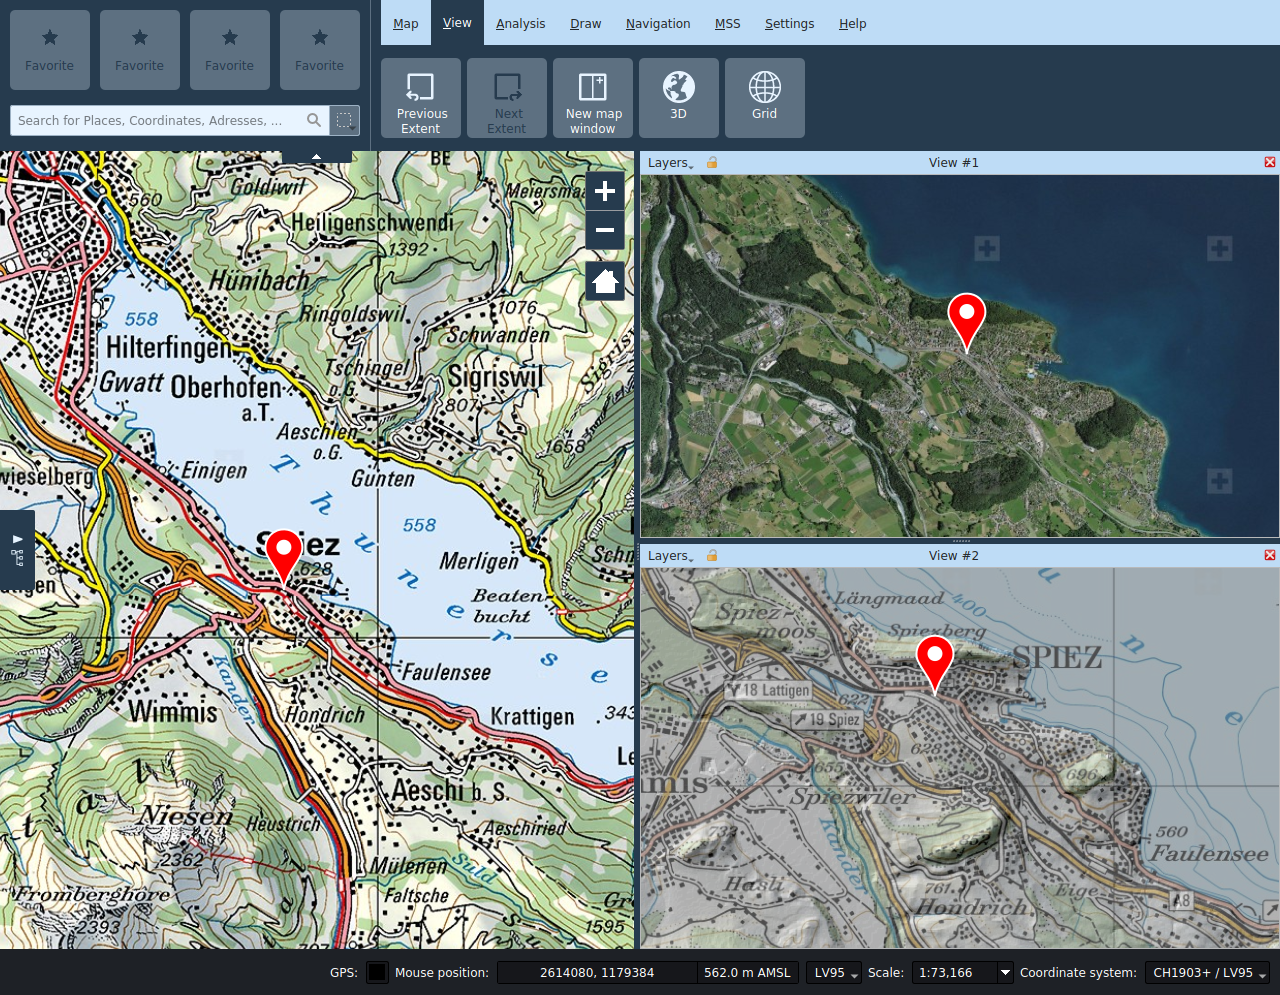
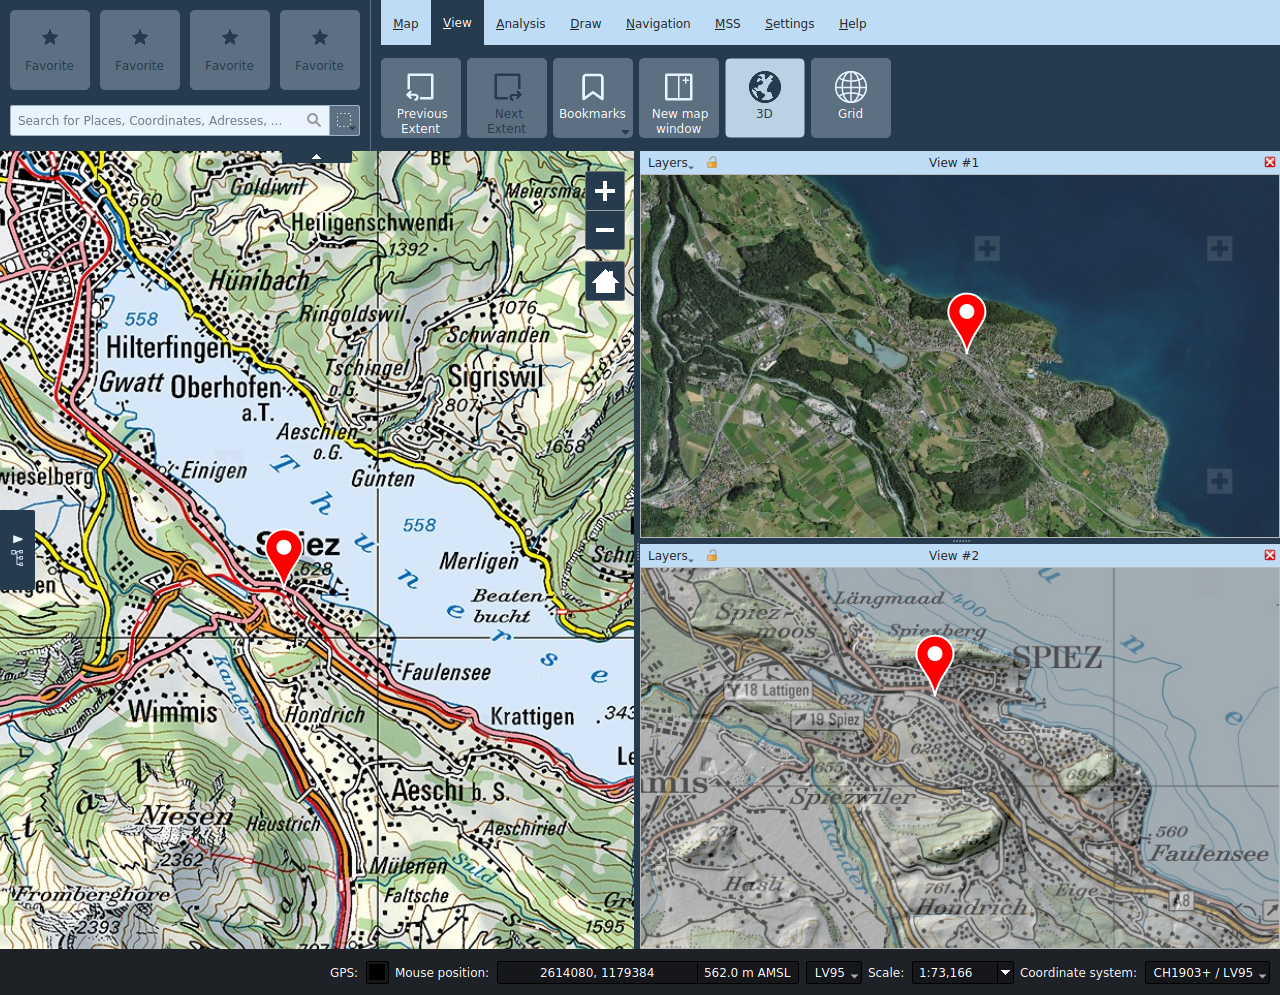
Update manual for version 2.1

Changed region(s): [[0.4375, 0.0312, 0.7188, 0.1558]]

diff --git a/manual/src/fr/index.md b/manual/src/fr/index.md
@@ -17,6 +17,30 @@ Les conditions d’utilisation des données sont énumérées dans l’applicati
 
 ## <a name="sec3"></a>Protocole de version
 
+### Version 2.1.0 (décembre 2021)
+* *Général*:
+    - Imprimer: Mise à l'échelle correcte des symboles (MSS, épingles, images, ...) en fonction du DPI d'impression.
+    - GPKG: Permet l'importation de couches de projet
+    - Arbre des couches: Possibilité de zoomer et de supprimer toutes les couches sélectionnées
+    - Visibilité basée sur l'échelle également pour les couches redlining/MSS
+    - Table d'attributs: divers nouveaux outils de sélection et de zoom pour les tables d'attributs
+* *Vue*:
+    - Nouvelle fonction de signets
+* *Analyse*:
+    - Bassin visuel: Possibilité de limiter la plage d'angle vertical de l'observateur
+    - Profil d’altitude et visibilité: affichage du marqueur dans le graphe lors du survol de la ligne sur la carte
+    - Nouvel outil éphéméride
+* *Dessin*:
+    - Épingles: Ajout d'un éditeur de texte riche
+    - Epingles: Permettre d'interagir avec le contenu de l'infobulle avec la souris
+    - Grille de guidage: Permettre l'étiquetage d'un seul quadrant
+    - Bullseye: Étiquetage des quadrants
+    - Nouvel élément de dessin en croix de coordonnées
+* *MSS*:
+    - Paramètres des symboles par couche
+    - Mise à jour de MSS-2022
+
+
 ### Version 2.0.0 (juliet 2020)
 - Nouvelle architecture d'application: KADAS est maintenant une application distincte, construite sur les bibliothèques QGIS 3.x
 - Nouvelle architecture des éléments de la carte, pour un flux de travail cohérent lors du dessin et de l'édition des objets Redlining, des symboles MSS, etc.

diff --git a/manual/src/it/view.md b/manual/src/it/view.md
@@ -6,7 +6,12 @@
 Spostandosi sulla mappa con la funzione **_Estensione precedente_** è possibile tornare all’estensione di mappa mostrato in precedenza. Tramite **_Estensione successivo_** si passa all’estensione di mappa selezionato successivamente.
 
 
-## <a name="sec1"></a>Nuova finestra della mappa
+## <a name="sec1"></a>Segnalibri
+
+I segnalibri permettono di memorizzare e ripristinare lo stato corrente della mappa, in particolare l'estensione della mappa e la configurazione dei livelli. Nota che il ripristino di un segnalibro non ripristinerà i livelli che nel frattempo sono stati rimossi dal progetto.
+
+
+## <a name="sec2"></a>Nuova finestra della mappa
 
 La funzione **_Nuova vista_** permette di aprire viste secondarie della mappa. Trascinamento della barra del titolo, queste possono essere posizionate a piacimento, all'interno della finestra principale o disassociata da essa.
 
@@ -18,7 +23,7 @@ In caso di necessità, è possibile modificare il titolo della sottofinestra.
 
 <img src="../../media/image13.png" />
 
-## <a name="sec2"></a>3D
+## <a name="sec3"></a>3D
 
 Con la funzione **_3D_** è possibile aprire una finestra in cui viene visualizzato il globo terrestre. La finestra viene disposta automaticamente ma può essere spostata con il mouse all’interno o all’esterno della finestra del programma.
 
@@ -52,7 +57,7 @@ Spilli, immagini e simboli MSS mono-punto vengono visualizzati come billboard.
 + **-**: Allontana la telecamera dal globo.
 
 
-## <a name="sec3"></a>Griglia
+## <a name="sec4"></a>Griglia
 
 Nella scheda Vista, è possibile attivare la **_griglia_** della mappa.
 

diff --git a/manual/src/de/view.md b/manual/src/de/view.md
@@ -7,7 +7,12 @@
 Beim Bewegen in der Karte kann über die Funktion **_Vorheriger Ausschnitt_** auf den vorher angezeigten Kartenausschnitt zurückgekehrt werden. Über **_Nächster Ausschnitt_** wird wieder auf den danach gewählten Kartenausschnitt gewechselt.
 
 
-## <a name="sec1"></a>Neues Kartenfenster
+## <a name="sec1"></a>Lesezeichen
+
+Lesezeichen ermöglichen das Speichern und Wiederherstellen des aktuellen Kartenzustandes, insbesondere der Kartenausdehnung und der Ebenenkonfiguration. Zu beachten ist, dass das Wiederherstellen eines Lesezeichens keine Ebenen wiederherstellt, die inzwischen aus dem Projekt entfernt worden sind.
+
+
+## <a name="sec2"></a>Neues Kartenfenster
 
 Über die Funktion **_Neues Kartenfenster_** können sekundäre Kartenansichten geöffnet werden. Diese können durch Ziehen an der Titelleiste beliebig innerhalb des Hauptfenster oder entkoppelt davon angeordnet werden.
 
@@ -20,7 +25,7 @@ Der Titel der Unterfenster lässt sich bei Bedarf ändern.
 <img src="../../media/image13.png" />
 
 
-## <a name="sec2"></a>3D
+## <a name="sec3"></a>3D
 
 Über die Funktion **_3D_** wird ein zusätzliches Fenster mit einer Globus-Ansicht geöffnet. Dieses Fenster wird automatisch angeordnet, kann aber auch mit der Maus an eine andere Stelle innerhalb oder ausserhalb des Programmfensters bewegt werden.
 
@@ -53,7 +58,7 @@ Stecknadeln, Kamerabilder und einpunkt MSS Symbole werden als Billboards angezei
 + **-**: Erhöht den Kamerahöhe.
 
 
-## <a name="sec3"></a>Gitter
+## <a name="sec4"></a>Gitter
 
 In der Registerkarte Ansicht kann das Kartengitter aktiviert werden.
 

diff --git a/manual/src/de/index.md b/manual/src/de/index.md
@@ -14,6 +14,31 @@ Die Nutzungsbedingungen für die Daten sind in der Anwendung unter Hilfe → Üb
 
 ## <a name="sec3"></a>Versionsprotokoll
 
+
+### Version 2.1.0 (Dezember 2021)
+* *Allgemeines*:
+    - Drucken: Korrekte Skalierung von Symbolen (MSS, Pins, Bilder, ...) entsprechend der Druck-DPI
+    - GPKG: Möglichkeit, Projektebenen zu importieren
+    - Ebenenbaum: Möglichkeit zum Zoomen und Entfernen aller ausgewählten Ebenen
+    - Skalenbasierte Sichtbarkeit auch für Redlining/MSS-Ebenen
+    - Attributtabelle: Verschiedene neue Auswahl- und Zoom-Werkzeuge
+* *Ansicht*:
+    - Neue Lesezeichen-Funktion
+* *Analyse*:
+    - Viewshed: Möglichkeit, den vertikalen Winkelbereich des Beobachters zu begrenzen
+    - Höhenprofil / Sichtlinie: Anzeige der Markierung in der Grafik, wenn man mit der Maus über die Linie auf der Karte fährt
+    - Neues Ephemeriden-Werkzeug
+* *Zeichnen*:
+    - Pins: neuer Rich-Text-Editor
+    - Stecknadeln: Möglichkeit, mit der Mouse mit dem Tooltipinhalt zu interagieren
+    - Führungsraster: Beschriftung nur eines Quadranten zulassen
+    - Bullseye: Beschriftung von Quandranten
+    - Neues Element zum Zeichnen von Passkreuzen
+* *MSS*:
+    - Symbol-Einstellungen pro Ebene
+    - Aktualisierung auf MSS-2022
+
+
 ### Version 2.0.0 (Juli 2020)
 - Vollständige Neugestaltung der Programmarchitektur: KADAS ist jetzt eine separate Anwendung, die auf den QGIS 3.x-Bibliotheken aufbaut
 - Überarbeitete Architektur für Kartenelemente, für ein konsistentes Verhalten beim Zeichnen und Bearbeiten sämtlicher Objekte (Redlining, MSS, usw.)

diff --git a/manual/src/fr/view.md b/manual/src/fr/view.md
@@ -6,7 +6,12 @@
 En se déplaçant dans la carte, on peut retourner à l’étendue de carte affiché auparavant par la fonction **_Étendue précédent_**. On peut ensuite aller sur l’extrait de carte choisi postérieurement par la fonction **_Étendue suivant_**.
 
 
-## <a name="sec1"></a>Nouvelle vue
+## <a name="sec1"></a> Signets
+
+Les signets permettent de stocker et de restaurer l'état actuel de la carte, plus précisément l'étendue de la carte et la configuration des couches. Notez que la restauration d'un signet ne restaurera pas les couches qui ont depuis été supprimées du projet.
+
+
+## <a name="sec2"></a>Nouvelle vue
 
 Des vues secondaires de la carte peuvent être ouvertes par la fonction **_Nouvelle vue_**. On peut les placer à volonté à l’intérieur de la fenêtre principale en les tirant depuis la barre de titre, ou les découpler.
 
@@ -18,7 +23,7 @@ Le titre de la sous-fenêtre peut être modifié si nécessaire.
 
 <img src="../../media/image13.png" />
 
-## <a name="sec2"></a>3D
+## <a name="sec3"></a>3D
 
 La fonction **_3D_** ouvre une autre fenêtre avec une vue du globe. Cette fenêtre est disposée automatiquement, mais peut aussi être déplacée à un autre endroit à l’intérieur ou à l’extérieur de la fenêtre de programme au moyen de la souris.
 
@@ -51,7 +56,7 @@ Les punaises, photos et symboles MSS ponctuels sont indiqués comme billboards.
 + **-**: Augmente la hauteur de la caméra.
 
 
-## <a name="sec3"></a>Grille
+## <a name="sec4"></a>Grille
 
 On peut activer la **_grille_** de la carte dans l’onglet Vue.
 

diff --git a/manual/src/en/view.md b/manual/src/en/view.md
@@ -6,7 +6,11 @@
 After panning or zooming the map, the function **_Previous extent_** allows the user to return to the previously visible map extent. Similarly the function **_Next extent_** allows to move forward in the extent history.
 
 
-## <a name="sec1"></a>New map window
+## <a name="sec1"></a>Bookmarks
+
+Bookmarks allow to store and restore the current map state, specifically the map extent and the layer configuration. Note that restoring a bookmark won't restore layers which have since been removed from the project.
+
+## <a name="sec2"></a>New map window
 
 The **_New map window_** function opens up secondary map views. These can be placed anywhere within the main window or decoupled from it by dragging the title bar.
 
@@ -18,7 +22,7 @@ The title of the subwindow can be changed if necessary.
 
 <img src="../../media/image13.png" />
 
-## <a name="sec2"></a>3D
+## <a name="sec3"></a>3D
 
 The **_3D_** function opens an additional child window with a 3D globe view. It can be moved around within or outside the application window by dragging on their title bar.
 
@@ -53,7 +57,7 @@ Pins, camera images and one-point MSS symbols are displayed as billboards.
 + **-**: Increases the camera height.
 
 
-## <a name="sec3"></a>Grid
+## <a name="sec4"></a>Grid
 
 The map **_grid_** can be activated in the View tab.
 

diff --git a/manual/src/en/index.md b/manual/src/en/index.md
@@ -14,6 +14,30 @@ The terms of use for the data are listed in the application under Help → About
 
 ## <a name="sec3"></a>Changelog
 
+### Version 2.1.0 (December 2021)
+* *General*:
+    - Print: Properly scale symbols (MSS, pins, pictures, ...) according to print DPI
+    - GPKG: Allow importing project layers
+    - Layer tree: Possibility to zoom to and remove all selected layers
+    - Scale based visibility also for redlining/MSS layers
+    - Attribute table: various new selection and zoom tools to
+* *View*:
+    - New bookmarks function
+* *Analysis*:
+    - Viewshed: Possibility to limit observer vertical angle range
+    - Height profile / Line of sight: show marker in plot when hovering over line on the map
+    - New ephemeris tool
+* *Draw*:
+    - Pins: Add rich text editor
+    - Pins: Allow interacting with tooltip content with mouse
+    - Guide grid: Allow labeling only one quadrant
+    - Bullseye: Quandrant labeling
+    - New coordinate cross drawing item
+* *MSS*:
+    - Per layer symbol settings
+    - Update to MSS-2022
+
+
 ### Version 2.0.0 (July 2020)
 - Complete architectural redesign: KADAS is now a separate application, built on top of the QGIS 3.x libraries
 - New map item architecture, for consistent workflow when drawing and editing redlining objects, MSS symbols, etc

diff --git a/manual/src/de/analysis.md b/manual/src/de/analysis.md
@@ -59,3 +59,7 @@ Um diese Geländeanalysefunktionen verwenden zu können muss im Projekt ein Höh
 Die Einsehbarkeitsanalyse wird innerhalb eines Kreissektors oder einem Vollkreis berechnet. Beim ersten Mausklick auf die Karte wird der Beobachterstandort definiert, der zweite definiert den Radius, und der dritte den Sektoröffungswinkel. Falls die numerische Eingabe aktiv ist, können diese Parameter auch numerisch eingegeben werden. Nach dem erfassen der Analysefläche können die Berechnungsparameter angepasst werden, nämlich die Beobachterhöhe, die Zielhöhe, ob diese Höhen relativ zum Terrain oder dem Meeresspiegel interpretiert werden sollen, und ob der sichtbare oder der unsichtbare Berich angezeigt werden soll.
 
 Das Ergebnis wird als Rasterebene der Karte hinzugefügt. Beim Speichern des Projektes wird diese als Anhang in der *<Projektname>.qgz* Projektdatei gespeichert.
+
+## <a name="sec4"></a>Ephemeriden
+
+Das Werkzeug **_Ephemeriden_** berechnet die Sonnen- und Mondephemeriden (Position, Auf- und Untergangszeiten, Mondphase) an einer ausgewählten Geländeposition und zu einem bestimmten Zeitpunkt.

diff --git a/manual/src/it/draw.md b/manual/src/it/draw.md
@@ -35,7 +35,7 @@ Figure geometriche e testi possono venir copiati, tagliati e incollati tramite g
 
 Le spilli sono **_marcatori della posizione_** georeferenziati che possono essere inoltre dotati di un nome e di altre annotazioni.
 
-Nel tooltip di una puntina collocata sulla mappa è possibile leggere la posizione e l'altezza del punto dove essa è situata. Facendo clic con il pulsante destro sulla spillo, è possibile copiare la sua posizione negli appunti. Facendo doppio clic sulla spillo si apre il dialogo degli attributi. Link interattivi possono essere copiati negli attributi dal browser.
+Nel tooltip di una puntina collocata sulla mappa è possibile leggere la posizione e l'altezza del punto dove essa è situata. Facendo clic con il pulsante destro sulla spillo, è possibile copiare la sua posizione negli appunti. Facendo doppio clic sulla spillo si apre il dialogo degli attributi.
 
 Le spilli possono essere ricercate per nome e per annotazioni nella ricerca globale.
 

diff --git a/manual/src/de/draw.md b/manual/src/de/draw.md
@@ -33,7 +33,7 @@ Redlining-Zeichnungen können per Kontextmenü oder den üblichen Tastaturkürze
 
 Stecknadeln sind georeferenzierte **_Positions-Marker_**, welche zusätzlich mit einem Name sowie mit weiteren Anmerkungen versehen werden können.
 
-Im Tooltip einer platzierten Stecknadel können Position und Höhe abgelesen werden. Ein Doppelklick auf die Stecknadel öffnet dessen Attributdialog. Web-Links können von einem Webbrowser in das Textfeld kopiert werden. Per Rechtsklick auf die Stecknadel kann dessen Position in die Zwischenablage kopiert werden.
+Im Tooltip einer platzierten Stecknadel können Position und Höhe abgelesen werden. Ein Doppelklick auf die Stecknadel öffnet dessen Attributdialog. Per Rechtsklick auf die Stecknadel kann dessen Position in die Zwischenablage kopiert werden.
 
 Stecknadeln können in der globalen Suche nach Name und Anmerkungen durchsucht werden.
 

diff --git a/manual/src/fr/draw.md b/manual/src/fr/draw.md
@@ -35,7 +35,7 @@ Les dessins de Redlining peuvent être copiés / coupé et collé via le menu co
 
 Les punaises sont des **_marqueurs de positions_** géoréférencés qui peuvent également être nommés ou dotés de commentaires.
 
-L’infobulle d’une punaise placée indique la position et l’altitude. Un double clic sur la punaise ouvre sa boîte de dialogue. Les liens web peuvent être copiés dans la zone de texte depuis un navigateur Internet. Un clic droit sur la punaise permet de copier sa position dans le presse-papier.
+L’infobulle d’une punaise placée indique la position et l’altitude. Un double clic sur la punaise ouvre sa boîte de dialogue. Un clic droit sur la punaise permet de copier sa position dans le presse-papier.
 
 On peut rechercher des punaises par nom ou par commentaire dans la recherche standard.
 
